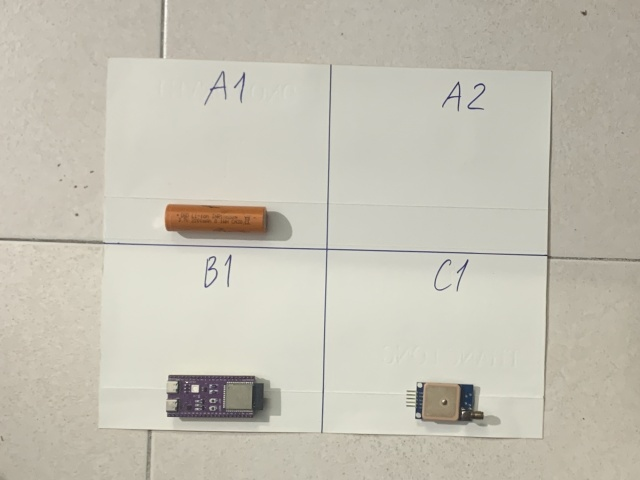
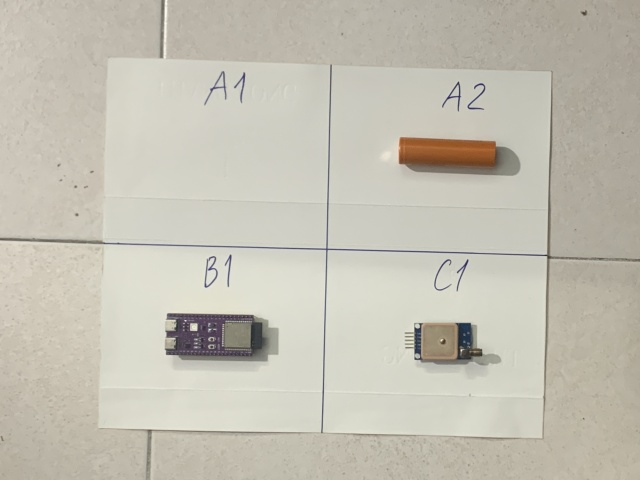
Bo sung chuoi S10-S13, tai lieu demo_seq/docs va log chay that URSim

diff --git a/docs/readme.md b/docs/readme.md
@@ -1,36 +1,56 @@
-## Chạy đồng bộ Server Python (VS Code) và Robot URSim
+# Hướng Dẫn Chạy Tích Hợp VS Code (`bridge.py`) và URSim (`nhom2_main.urp`)
 
-> **Nguyên tắc bắt buộc:** Luôn khởi động Server Python trên VS Code **trước**, sau đó mới bấm **Play** trên URSim.
+## 1. Kiểm tra IP và cấu hình URSim (VMware)
 
-### Bước 1: Chạy Server cho kịch bản `S01` tại Terminal VS Code
-```powershell
-python -X utf8 bridge.py --mode ai --images data/demo_seq/S01
-```
-Chờ Terminal hiển thị thông báo server đang lắng nghe tại `0.0.0.0:5000`.
-
-### Bước 2: Bấm Play trên URSim
-* Nhấn nút **Play** trên giao diện PolyScope của URSim.
-* Robot tự động gắp và đặt linh kiện theo thứ tự ưu tiên `A1 → A2 → B1 → C1` dựa trên gói tin phản hồi từ AI.
-* Khi kết thúc chuỗi, màn hình URSim hiện popup tổng kết bộ đếm (`n_dat`, `n_khay_xong`, `n_cho`, `n_loi`) và lịch sử gói tin được lưu tự động thành file `.csv` trong thư mục `logs/`.
-
-### Bước 3: Chuyển sang kịch bản tiếp theo (`S02` → `S10`)
-1. Tại Terminal VS Code, nhấn `Ctrl + C` để dừng server của kịch bản vừa chạy.
-2. Chạy lại lệnh với thư mục kịch bản mới (ví dụ `S02`):
-   ```powershell
-   python -X utf8 bridge.py --mode ai --images data/demo_seq/S02
-   ```
-3. Quay lại URSim và bấm **Play** để chạy chu kỳ tiếp theo.
+1. Trên Windows, mở PowerShell và chạy lệnh `ipconfig` để lấy địa chỉ **IPv4 Address** của card mạng ảo **VMware Network Adapter VMnet8** (ví dụ: `192.168.61.1`).
+2. Khởi động **URSim UR3**, vào **File → Load Program** và mở đúng file `nhom2_main.urp` (bản đầy đủ có vòng lặp `Loop chay == True` và 4 chương trình con `Lay_A`, `Lay_B`, `Lay_C`, `Dat_VaoO`).
+3. Tại dòng gán biến `ip` ở đầu chương trình URSim, sửa giá trị cho khớp với địa chỉ IP `VMnet8` vừa lấy ở bước 1.
 
 ---
 
-##  Xử lý nhanh lỗi kết nối thường gặp
+## 2. Kích hoạt môi trường ảo trên VS Code
 
-* **Dọn tiến trình Python chạy ngầm (khi đổi kịch bản nhưng URSim vẫn trả về kết quả cũ do kẹt cổng `5000`):**
+Mở thư mục dự án bằng **VS Code**, nhấn `` Ctrl + ` `` mở Terminal (PowerShell) và kích hoạt `.venv`:
+
+```powershell
+Set-ExecutionPolicy -Scope Process -ExecutionPolicy Bypass
+.\.venv\Scripts\activate
+```
+
+---
+
+## 3. Chạy đồng bộ Server Python và Robot URSim
+
+> **Nguyên tắc bắt buộc:** Luôn khởi động Server Python trên VS Code **trước**, sau đó mới bấm **Play** trên URSim.
+
+1. **Khởi động Server cho kịch bản cần chạy (ví dụ `S01`):**
+   ```powershell
+   python -X utf8 bridge.py --mode ai --images data/demo_seq/S01
+   ```
+   Chờ Terminal báo đang lắng nghe kết nối tại `0.0.0.0:5000`.
+
+2. **Chạy trên URSim:**
+   * Bấm nút **Play** trên thanh điều khiển dưới cùng của PolyScope.
+   * Nếu xuất hiện popup xác nhận **RESET** (đưa robot về vị trí khởi tạo `Home`), bấm **Continue** để chương trình bắt đầu chạy.
+   * Khi hoàn tất chuỗi, đọc kết quả bộ đếm trên popup (`n_dat`, `n_khay_xong`, `n_cho`, `n_loi`) và kiểm tra trạng thái ngõ ra số (`DO1`) tại tab **I/O** nếu là ca báo lỗi.
+
+3. **Chuyển sang kịch bản tiếp theo (`S02` → `S13`):**
+   * Nhấn `Ctrl + C` tại Terminal VS Code để tắt server cũ.
+   * Chạy lại lệnh với thư mục kịch bản mới (ví dụ `data/demo_seq/S02`) rồi bấm **Play** trên URSim.
+
+---
+
+## 4. Dọn tiến trình kẹt cổng 5000 & Lưu log tiêu biểu
+
+* **Giải phóng riêng cổng `5000`** (nếu server cũ chưa tắt hẳn khiến URSim nhận nhầm kết quả cũ; lệnh này chỉ tắt đúng tiến trình đang chiếm cổng `5000`, không làm ảnh hưởng các tiến trình Python khác đang chạy trên máy):
   ```powershell
-  Get-Process python -ErrorAction SilentlyContinue | Stop-Process -Force
+  Get-NetTCPConnection -LocalPort 5000 -State Listen -ErrorAction SilentlyContinue | ForEach-Object { Stop-Process -Id $_.OwningProcess -Force }
   ```
 
-* **Mở cổng TCP `5000` trên Windows Firewall (chạy 1 lần với quyền Administrator nếu URSim báo `okk = False` hoặc `[0, nan, ...]`):**
+* **Mở cổng TCP `5000` trên Windows Firewall** (chạy 1 lần với quyền Administrator nếu URSim không kết nối được):
   ```powershell
   New-NetFirewallRule -DisplayName "URSim Port 5000" -Direction Inbound -LocalPort 5000 -Protocol TCP -Action Allow
   ```
+
+* **Lưu trữ file log tiêu biểu vào `docs/`:**
+  Thư mục `logs/` mặc định bị `.gitignore` bỏ qua các file `*.csv`. Sau khi chạy nghiệm thu xong, cần copy các file `logs/session_*.csv` tiêu biểu (và ảnh chụp màn hình popup / tab I/O) sang thư mục `docs/logs/` để đẩy lên GitHub làm minh chứng.

diff --git a/data/demo_seq/README.md b/data/demo_seq/README.md
@@ -1,0 +1,19 @@
+# Bộ Kịch Bản Kiểm Thử Chuỗi Ảnh (`data/demo_seq/S01` – `S13`)
+
+Bộ dữ liệu gồm **13 kịch bản** (trong đó **10 chuỗi nhiều bước** trước–sau và **3 ca biên 1 bước**), kích thước ảnh chuẩn hóa `640×480`, thứ tự ưu tiên cấp bù `A1 → A2 → B1 → C1`.
+
+| Chuỗi | Ca kiểm thử | Số bước | Lệnh / Trạng thái mong đợi từng bước (`status, cls, slot`) | Bộ đếm & ngõ ra mong đợi trên URSim |
+| :--- | :--- | :---: | :--- | :--- |
+| **S01** | Thiếu 2 A và 1 C (chỉ có B1) | 4 | `step00`: `status=1, cls=1, slot=1` (A→A1)<br>`step01`: `status=1, cls=1, slot=2` (A→A2)<br>`step02`: `status=1, cls=3, slot=4` (C→C1)<br>`step03`: `status=3, cls=0, slot=0` (Đủ bộ) | `n_dat=3`, `n_khay_xong=1`, `n_cho=0` |
+| **S02** | Thiếu 1 A ở ô A1 | 2 | `step00`: `status=1, cls=1, slot=1` (A→A1)<br>`step01`: `status=3, cls=0, slot=0` (Đủ bộ) | `n_dat=1`, `n_khay_xong=1`, `n_cho=0` |
+| **S03** | Thiếu B ở ô B1 | 2 | `step00`: `status=1, cls=2, slot=3` (B→B1)<br>`step01`: `status=3, cls=0, slot=0` (Đủ bộ) | `n_dat=1`, `n_khay_xong=1`, `n_cho=0` |
+| **S04** | Thiếu C ở ô C1 | 2 | `step00`: `status=1, cls=3, slot=4` (C→C1)<br>`step01`: `status=3, cls=0, slot=0` (Đủ bộ) | `n_dat=1`, `n_khay_xong=1`, `n_cho=0` |
+| **S05** | Thiếu cả 2 A (chỉ có B1, C1) | 3 | `step00`: `status=1, cls=1, slot=1` (A→A1)<br>`step01`: `status=1, cls=1, slot=2` (A→A2)<br>`step02`: `status=3, cls=0, slot=0` (Đủ bộ) | `n_dat=2`, `n_khay_xong=1`, `n_cho=0` |
+| **S06** | Khay trống hoàn toàn (4 ô trống) | 5 | `step00`: `status=1, cls=1, slot=1` (A→A1)<br>`step01`: `status=1, cls=1, slot=2` (A→A2)<br>`step02`: `status=1, cls=2, slot=3` (B→B1)<br>`step03`: `status=1, cls=3, slot=4` (C→C1)<br>`step04`: `status=3, cls=0, slot=0` (Đủ bộ) | `n_dat=4`, `n_khay_xong=1`, `n_cho=0` |
+| **S07** | Khay đủ bộ ngay từ đầu | 1 | `step00`: `status=3, cls=0, slot=0` (Đủ bộ ngay) | `n_dat=0`, `n_khay_xong=1`, `n_cho=0` |
+| **S08** | Đặt nhầm ô (sai loại linh kiện) | 1 | `step00` (retry 3 lần): `status=2, 2, 2` (`wrong_type`) | `n_dat=0`, `n_khay_xong=0`, `n_cho=3`, popup `"Can nguoi van hanh kiem tra"`, `DO1` bật |
+| **S09** | Ảnh không đổi sau khi robot báo `DONE` | 2 | `step00`: `status=1, cls=1, slot=1` (A→A1)<br>`step01` (retry 3 lần): `status=2, 2, 2` (`not_confirmed`) | `n_dat=1`, `n_khay_xong=0`, `n_cho=3`, popup `"Can nguoi van hanh kiem tra"`, `DO1` bật |
+| **S10** | Bị che khuất vật ở ô A1 (`conf < 0.5`) | 1 | `step00` (retry 3 lần): `status=2, 2, 2` (`low_confidence` / `empty`) | `n_dat=0`, `n_khay_xong=0`, `n_cho=3`, popup `"Can nguoi van hanh kiem tra"`, `DO1` bật |
+| **S11** | Thiếu A1 và C1 (chỉ có A2, B1) | 3 | `step00`: `status=1, cls=1, slot=1` (A→A1)<br>`step01`: `status=1, cls=3, slot=4` (C→C1)<br>`step02`: `status=3, cls=0, slot=0` (Đủ bộ) | `n_dat=2`, `n_khay_xong=1`, `n_cho=0` |
+| **S12** | Thiếu B1 và C1 (chỉ có A1, A2) | 3 | `step00`: `status=1, cls=2, slot=3` (B→B1)<br>`step01`: `status=1, cls=3, slot=4` (C→C1)<br>`step02`: `status=3, cls=0, slot=0` (Đủ bộ) | `n_dat=2`, `n_khay_xong=1`, `n_cho=0` |
+| **S13** | Thiếu A2 và B1 (chỉ có A1, C1) | 3 | `step00`: `status=1, cls=1, slot=2` (A→A2)<br>`step01`: `status=1, cls=2, slot=3` (B→B1)<br>`step02`: `status=3, cls=0, slot=0` (Đủ bộ) | `n_dat=2`, `n_khay_xong=1`, `n_cho=0` |
